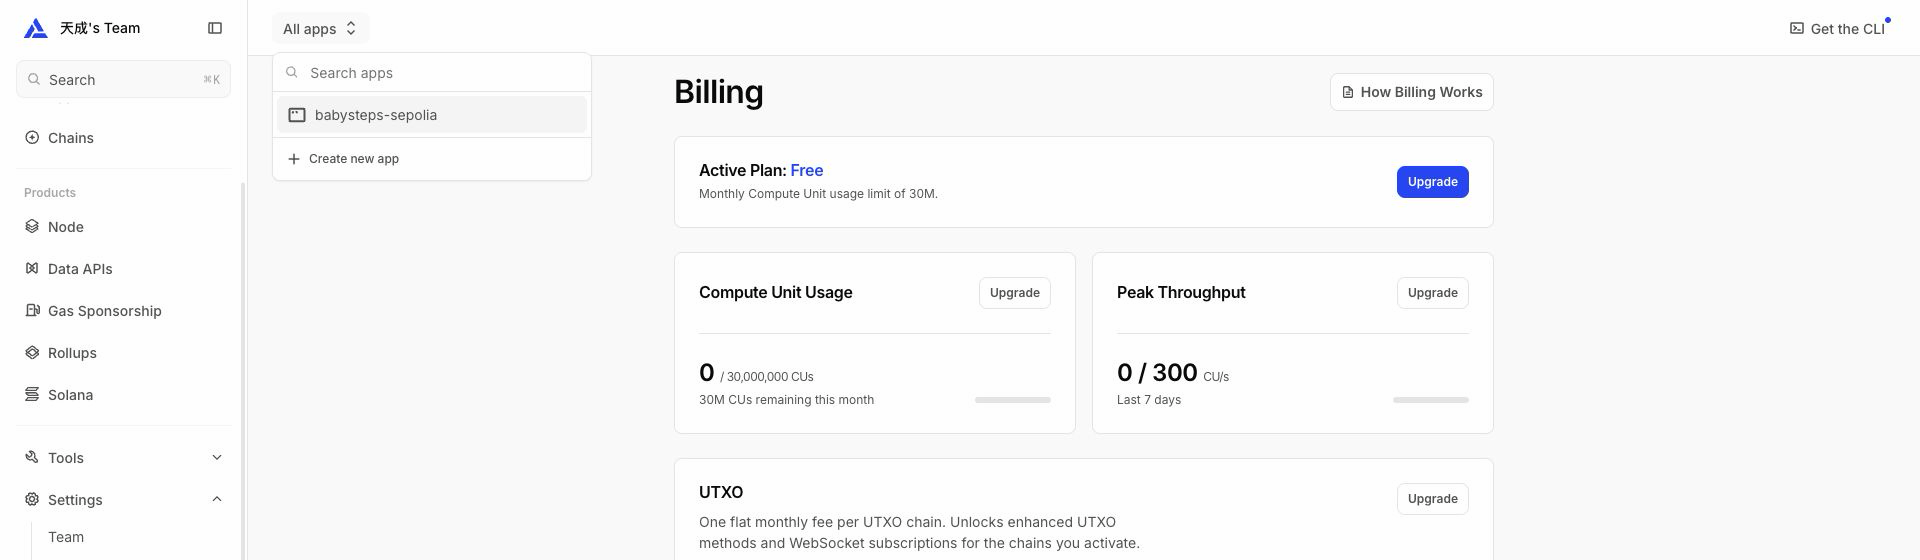
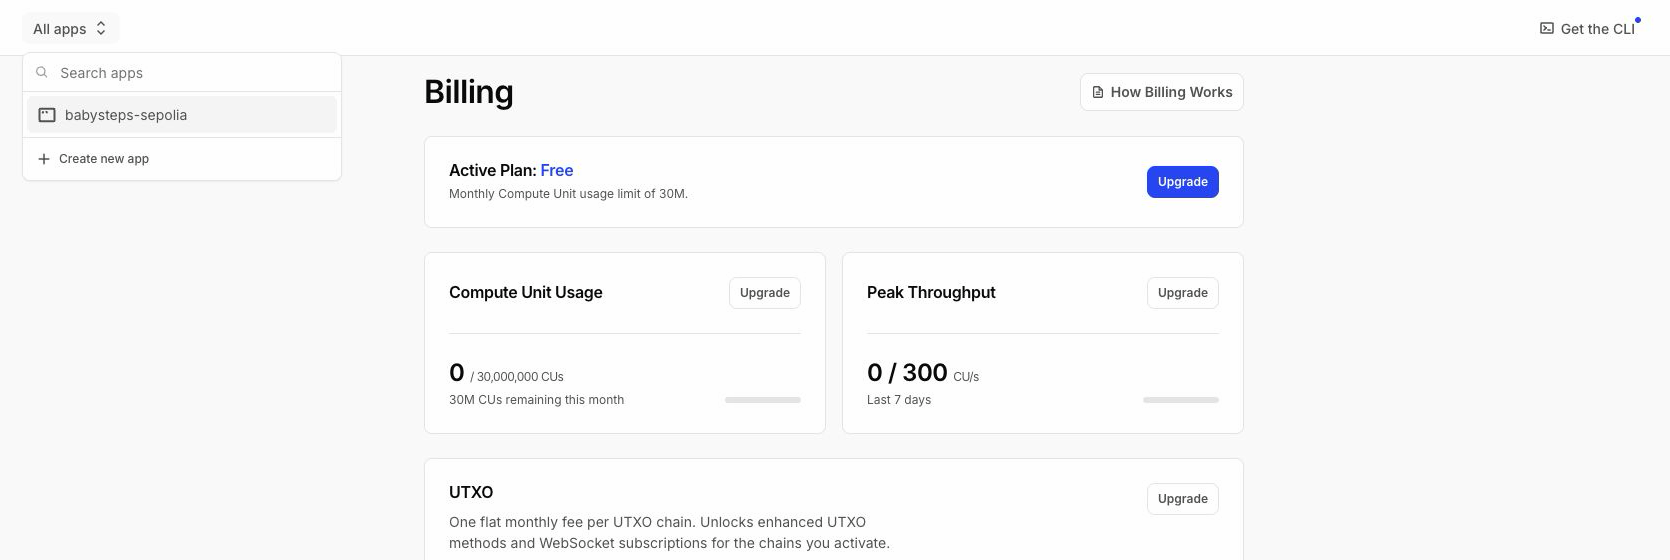
docs(evidence): capture external service verification

diff --git a/docs/evidence/screenshots/2026-08-12-web3-services/README.md b/docs/evidence/screenshots/2026-08-12-web3-services/README.md
@@ -4,14 +4,21 @@
 
 | 截图 | 操作目的与设计理由 | 可见验证结论 | 安全处理 |
 | --- | --- | --- | --- |
-| `alchemy-app-free-usage.png` | 证明 Alchemy 没有升级或启用付费容量 | 应用为 `babysteps-sepolia`；Active Plan 为 Free；当月 CU 使用为 0 | 未显示 API Key、RPC URL 或账号邮箱 |
+| `alchemy-app-free-usage.png` | 证明 Alchemy 没有升级或启用付费容量 | 应用为 `babysteps-sepolia`；Active Plan 为 Free；每月额度 30M CU，截图时使用量为 0 | 已裁掉账户团队侧栏；未显示 API Key、RPC URL 或账号邮箱 |
 | `alchemy-ethereum-sepolia-only.png` | 验证唯一启用网络确为 Ethereum Sepolia，而不是只相信汇总数字 | 1 个网络启用、157 个禁用；Ethereum Sepolia 为 Enabled，同组其他网络为 Disabled | RPC URL 列整列遮挡，未包含凭据 |
 | `infura-sepolia-only-safe.png` | 将 Infura 免费 Key 收敛为 Sepolia 专用，减少误用其他网络的额度和攻击面 | 46 个网络中仅 Ethereum Sepolia 启用 | 画面裁掉 Key、Secret、Endpoint 与账号区域；截图中曾出现的旧 Key 已旋转失效 |
 | `infura-core-free-plan.png` | 证明 Infura 没有升级或启用收费套餐 | Current Plan 为 Core；Estimated Monthly Charge 为 Free | 未显示付款方式、账号邮箱或凭据 |
 | `the-graph-sepolia-synced.png` | 证明合约日志已真实发布到 Subgraph Studio 并完成索引 | `v0.1.0`、Ethereum Sepolia、Deployed、Synced、100%、9 entities | Studio 对 deploy key 和钱包使用截断显示；仓库不保存完整值 |
 | `privy-allowed-origin.png` | 将 Privy 客户端访问范围锁定到正式产品域名，防止其他站点滥用公开 App ID | Allowed origin 包含 `https://babysteps.baby2b.online`；应用仍为免费 development mode | 未打开 API keys 页；截图不含 App Secret、邮箱或用户数据 |
+| `privy-login-methods-preview.png` | 在 Cloudflare PR 预览站验证真实前端已接入 Privy，而不是仅完成控制台配置 | 个人中心可加载 Privy 弹窗，并提供邮箱、Google、外部钱包三种入口 | 未填写邮箱、未选择账户、未签名；该图证明登录入口可用，不代表已完成最终用户登录 |
 
 对应的机器可读证据：
 
 - `docs/evidence/deployment/2026-08-12-the-graph-sepolia.json`
-- RPC 三源对照证据将在 Infura/Alchemy 端点完成安全注入并实际读取后补充，未验证前不写作完成。
+- `docs/evidence/deployment/2026-08-12-rpc-comparison.json`
+
+补充边界：
+
+- Infura 与 Alchemy 均保持免费方案，且只启用 Ethereum Sepolia；完整 RPC URL/API Key 不进入 Git 或截图。
+- RPC 对照脚本已用 PublicNode、Infura、Alchemy 读取同一笔 Sepolia 交易并比对 chain ID、交易、回执与日志；JSON 仅保存脱敏结果和延迟，不保存端点。
+- Privy 已验证允许域名和登录方式弹窗；真正的 Google/邮箱认证、嵌入式钱包创建与签名仍需要用户在正式站完成一次交互后，才能标记为端到端完成。
